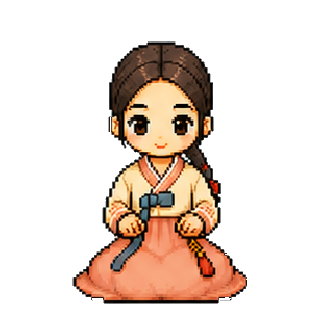
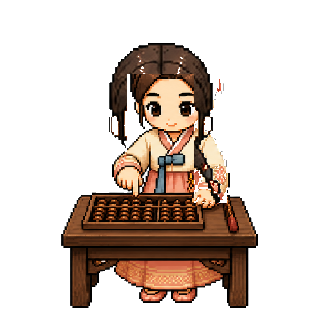
fix: preserve original study sprite actions

diff --git a/src/index.html b/src/index.html
@@ -4,8 +4,8 @@
   <meta charset="utf-8">
   <meta name="viewport" content="width=device-width,initial-scale=1,viewport-fit=cover">
   <title>선화공주 만들기 — 자산 로딩 테스트</title>
-  <link rel="stylesheet" href="style.css?v=0.64.217-debug">
-  <link rel="stylesheet" href="schedule.css?v=0.64.217-debug">
+  <link rel="stylesheet" href="style.css?v=0.64.218-debug">
+  <link rel="stylesheet" href="schedule.css?v=0.64.218-debug">
   <link rel="stylesheet" href="schedule-pm2.css?v=0.64.18-debug">
   <link rel="stylesheet" href="birthday.css?v=0.64.153-debug">
   <link rel="stylesheet" href="prologue.css?v=0.64.18-debug">
@@ -48,7 +48,7 @@
       </div>
       <span class="loading-caption">이야기를 열 준비가 되었어요</span>
       <button class="studio-start-sound" id="studioStartSound" type="button">인연의 문을 열기</button>
-      <small class="loading-version" aria-label="현재 게임 버전">v0.64.217-debug</small>
+      <small class="loading-version" aria-label="현재 게임 버전">v0.64.218-debug</small>
     </section>
     <section class="prologue" id="prologue" aria-label="이야기 시작 영상" hidden>
       <audio id="prologueMusic" src="../assets/audio/music/prologue-lantern-and-dawn.mp3" preload="auto" loop></audio>
@@ -257,6 +257,6 @@
       </div>
     </section>
   </main>
-  <script src="schedule-layer-manifests.js?v=0.64.217-debug"></script><script src="story-data.js?v=0.64.18-debug"></script><script src="app.js?v=0.64.217-debug"></script>
+  <script src="schedule-layer-manifests.js?v=0.64.218-debug"></script><script src="story-data.js?v=0.64.18-debug"></script><script src="app.js?v=0.64.218-debug"></script>
 </body>
 </html>

diff --git a/src/app.js b/src/app.js
@@ -246,7 +246,7 @@ const vacationIllustrations=[
 function unifiedAgeFolder(){return '09';}
 function scheduleFramePath(file){return `../assets/characters/seonhwa/schedule-actions/${file}`;}
 function scheduleBasePath(file){return `../assets/characters/seonhwa/schedule-base/${file}`;}
-const scheduleAssetRevision='0.64.217-debug';
+const scheduleAssetRevision='0.64.218-debug';
 const scheduleQaParams=new URLSearchParams(location.search);
 const moonlightStandaloneQa=scheduleQaParams.get('qaHoliday')==='chuseok';
 const sehwaStandaloneQa=scheduleQaParams.get('qaHoliday')==='seollal';
